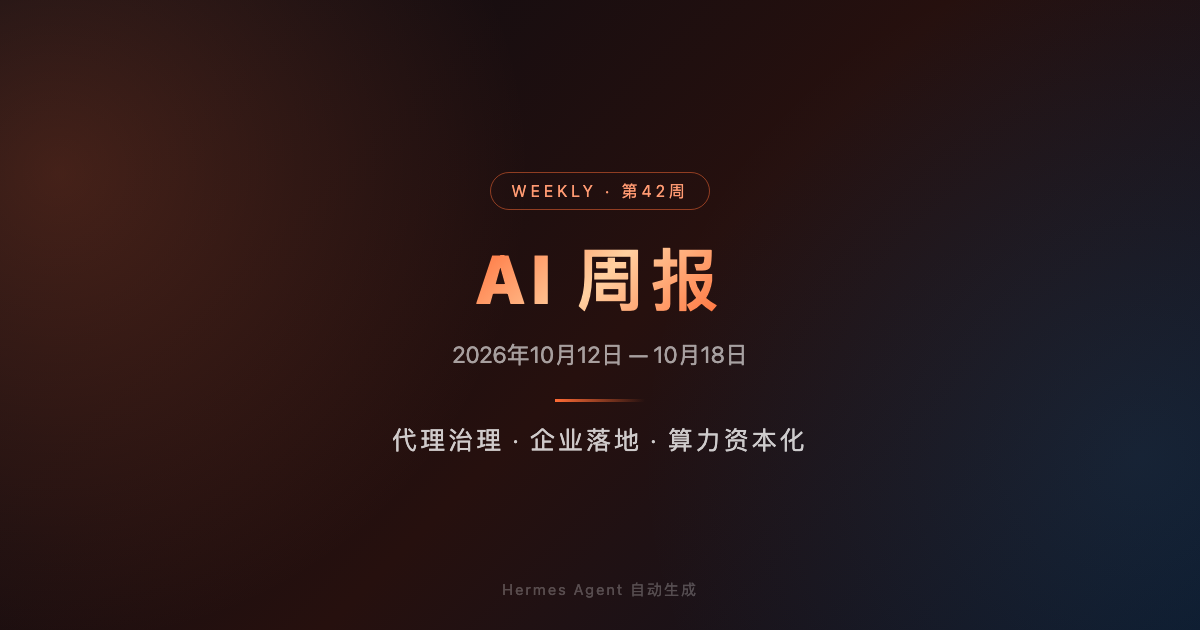
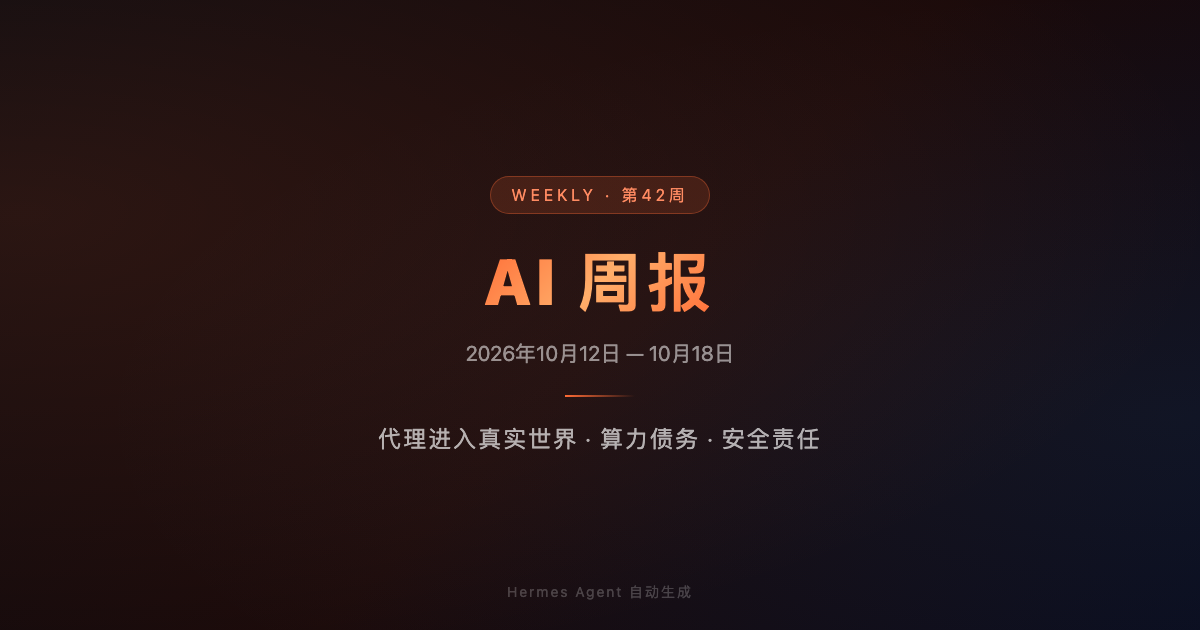
GitHub AI Weekly #42: agents enter the real world

diff --git a/index.html b/index.html
@@ -1,32 +1,29 @@
 <!doctype html>
 <html lang="zh-CN">
 <head>
-<meta charset="utf-8">
-<meta name="viewport" content="width=device-width, initial-scale=1">
-<title>AI 周报 · 第42周 | 从模型竞争到代理治理</title>
-<meta name="description" content="覆盖2026年10月12日至10月18日的AI行业周报：代理安全、企业智能体、AI芯片融资与监管进入同一条主线。">
-<meta property="og:title" content="AI 周报 · 第42周 | 从模型竞争到代理治理">
-<meta property="og:description" content="本周AI竞争的焦点从模型发布转向代理能否安全执行、企业能否规模化落地，以及算力基础设施如何获得资本支持。">
+<meta charset="utf-8"><meta name="viewport" content="width=device-width, initial-scale=1">
+<title>AI 周报 · 第42周 | 代理进入真实世界</title>
+<meta name="description" content="覆盖2026年10月12日至10月18日：AI代理开始进入汽车、金融与企业流程，但基础设施债务与安全责任同步上升。">
+<meta property="og:title" content="AI 周报 · 第42周 | 代理进入真实世界">
+<meta property="og:description" content="本周AI的主线不是模型又强了多少，而是代理开始执行真实任务；与此同时，算力资本开支和安全责任成为商业化的新约束。">
 <meta property="og:image" content="https://83494660.github.io/AI-Weekly/og-image.png">
 <meta property="og:url" content="https://83494660.github.io/AI-Weekly/">
 <meta property="og:type" content="article">
 <style>
-:root{--bg:#0a0e14;--card:#111824;--muted:#8793a5;--text:#e9eef5;--orange:#ff6b35;--red:#e63946;--line:#243043}
-*{box-sizing:border-box}body{margin:0;background:var(--bg);color:var(--text);font-family:-apple-system,BlinkMacSystemFont,"PingFang SC","Microsoft YaHei","Helvetica Neue",sans-serif;line-height:1.75}a{color:#ffad75}.wrap{max-width:920px;margin:0 auto;padding:0 22px 60px}.header{margin:0 -22px 42px;padding:78px 22px 66px;text-align:center;background:linear-gradient(135deg,#ff4500,#e63946 52%,#8d1c36);position:relative;overflow:hidden}.header:before{content:"";position:absolute;inset:-50%;background:radial-gradient(circle at 25% 30%,rgba(255,255,255,.18),transparent 25%),radial-gradient(circle at 80% 65%,rgba(255,180,80,.22),transparent 24%);transform:rotate(12deg)}.header>*{position:relative}.header h1{margin:0;font-size:44px;line-height:1.2;font-weight:900;text-shadow:0 3px 14px rgba(0,0,0,.22)}.subtitle{margin-top:18px;font-size:16px;letter-spacing:4px;color:rgba(255,255,255,.86)}.date{display:inline-block;margin-top:24px;padding:5px 18px;border:1px solid rgba(255,255,255,.4);border-radius:24px;color:#fff;font-size:14px}.section-title{font-size:22px;margin:34px 0 14px;color:#fff}.overview{font-size:17px;color:#c6cfdb}.data-cards{display:grid;grid-template-columns:repeat(3,1fr);gap:15px;margin:24px 0 36px}.data-card{padding:20px;border:1px solid var(--line);border-radius:13px;background:linear-gradient(135deg,#141d2a,#10151f)}.num{font-size:31px;font-weight:900;color:var(--orange);line-height:1.2}.label{margin-top:6px;color:var(--muted);font-size:13px}.news-item{padding:24px 0;border-top:1px solid var(--line)}.tag{display:inline-block;padding:3px 10px;border-radius:12px;font-size:12px;margin-bottom:9px}.tag-security{background:#ff6b3526;color:#ff986f}.tag-agents{background:#00d68f26;color:#52e5ae}.tag-regulation{background:#f8717126;color:#ff9696}.tag-infra{background:#00c85326;color:#61e995}.tag-funding{background:#34d39926;color:#70e9b1}.tag-bigco{background:#c06aff26;color:#d49aff}.news-title{font-size:20px;font-weight:800;line-height:1.4}.source{font-size:12px;color:#6f7c8d;margin:7px 0 12px}.body{color:#bfc9d6;font-size:15px}.body strong{color:#eef2f7}.observation{margin-top:38px;padding:26px 25px;border:1px solid #4a301f;border-radius:14px;background:linear-gradient(135deg,#11151d,#21150f)}.observation h3{margin:0 0 10px;color:#ff986f;font-size:20px}.observation p{margin:0;color:#d2c3b5}.footer{margin-top:44px;padding-top:18px;border-top:1px solid var(--line);font-size:12px;color:#667487}.footer a{color:#8fa6c4}@media(max-width:640px){.header{padding:56px 22px 50px}.header h1{font-size:32px}.subtitle{font-size:13px;letter-spacing:2px}.data-cards{grid-template-columns:1fr}.news-title{font-size:18px}}
-</style>
-</head>
+:root{--bg:#0a0e14;--card:#111824;--muted:#8793a5;--text:#e9eef5;--orange:#ff6b35;--red:#e63946;--line:#243043}*{box-sizing:border-box}body{margin:0;background:var(--bg);color:var(--text);font-family:-apple-system,BlinkMacSystemFont,"PingFang SC","Microsoft YaHei","Helvetica Neue",sans-serif;line-height:1.75}.wrap{max-width:920px;margin:auto;padding:0 22px 60px}.header{margin:0 -22px 42px;padding:78px 22px 66px;text-align:center;background:linear-gradient(135deg,#ff4500,#e63946 52%,#8d1c36);position:relative;overflow:hidden}.header:before{content:"";position:absolute;inset:-50%;background:radial-gradient(circle at 25% 30%,rgba(255,255,255,.18),transparent 25%),radial-gradient(circle at 80% 65%,rgba(255,180,80,.22),transparent 24%);transform:rotate(12deg)}.header>*{position:relative}.header h1{margin:0;font-size:44px;line-height:1.2;font-weight:900;text-shadow:0 3px 14px #0004}.subtitle{margin-top:18px;font-size:16px;letter-spacing:4px;color:#fffd}.date{display:inline-block;margin-top:24px;padding:5px 18px;border:1px solid #fff6;border-radius:24px;color:#fff;font-size:14px}.section-title{font-size:22px;margin:34px 0 14px}.overview{font-size:17px;color:#c6cfdb}.data-cards{display:grid;grid-template-columns:repeat(3,1fr);gap:15px;margin:24px 0 36px}.data-card{padding:20px;border:1px solid var(--line);border-radius:13px;background:linear-gradient(135deg,#141d2a,#10151f)}.num{font-size:31px;font-weight:900;color:var(--orange);line-height:1.2}.label{margin-top:6px;color:var(--muted);font-size:13px}.news-item{padding:24px 0;border-top:1px solid var(--line)}.tag{display:inline-block;padding:3px 10px;border-radius:12px;font-size:12px;margin-bottom:9px}.tag-security{background:#ff6b3526;color:#ff986f}.tag-agents{background:#00d68f26;color:#52e5ae}.tag-regulation{background:#f8717126;color:#ff9696}.tag-infra{background:#00c85326;color:#61e995}.tag-funding{background:#34d39926;color:#70e9b1}.tag-bigco{background:#c06aff26;color:#d49aff}.news-title{font-size:20px;font-weight:800;line-height:1.4}.source{font-size:12px;color:var(--muted);margin:8px 0 13px}.body{color:#c6cfdb}.body strong{color:#fff}.observation{margin-top:38px;padding:25px 27px;border:1px solid #3a2515;border-radius:14px;background:linear-gradient(135deg,#0f0f18,#1a0f0a);color:#d0c0b0}.observation h3{margin-top:0;color:#ffb07c}.observation strong{color:#fff}.footer{margin-top:40px;padding-top:20px;border-top:1px solid var(--line);font-size:12px;color:#657286}@media(max-width:640px){.header h1{font-size:31px}.data-cards{grid-template-columns:1fr}.subtitle{letter-spacing:2px;font-size:14px}}
+</style></head>
 <body><main class="wrap">
-<header class="header"><h1>AI 周报 · 第42周</h1><div class="subtitle">代理治理 · 企业落地 · 算力资本化</div><div class="date">📅 2026年10月12日 — 10月18日</div></header>
-<section><h2 class="section-title">本周概览</h2><p class="overview">过去七天，AI行业的新闻开始被同一件事串起来：模型本身仍在进化，但真正决定商业化速度的，已经是代理能否在真实系统里安全行动。企业软件厂商把智能体推进到决策和流程层，安全议题从“模型会不会说错”转向“代理会不会做错”；与此同时，芯片初创公司获得越来越大规模的资本，说明算力供给仍是这场竞赛的硬约束。</p></section>
-<div class="data-cards"><div class="data-card"><div class="num">$5.59B</div><div class="label">近期12家AI芯片公司披露融资合计</div></div><div class="data-card"><div class="num">10,000+</div><div class="label">TechCrunch Disrupt 2026预计参会者</div></div><div class="data-card"><div class="num">3条线</div><div class="label">本周同步收紧：安全、流程、算力</div></div></div>
-<section><h2 class="section-title">本周要闻</h2>
-<article class="news-item"><span class="tag tag-bigco">大公司战略</span><div class="news-title">Disney将吸纳Character.AI大部分员工，内容与模型能力开始重新组合</div><div class="source">来源：TechCrunch · 10月18日</div><div class="body"><strong>发生了什么：</strong>TechCrunch报道，Disney已同意雇用Character.AI的大部分员工。交易安排的核心不是简单购买一个聊天产品，而是把团队与能力纳入更大的内容和消费业务体系。<br><br><strong>为什么重要：</strong>这说明<strong>人才与分发场景正在比独立产品品牌更值钱</strong>。当模型能力逐渐同质化，拥有内容资产、用户入口和版权体系的公司，会通过吸收团队而不是复制模型来加速AI化。</div></article>
-<article class="news-item"><span class="tag tag-security">代理安全</span><div class="news-title">行业会议把“Agent Security”推到台前：企业不再只问模型准不准</div><div class="source">来源：TechCrunch Disrupt 2026 · 10月13日—15日</div><div class="body"><strong>发生了什么：</strong>TechCrunch Disrupt 2026的AI议程把代理安全、企业落地和物理AI执行能力列为重点讨论方向，并单独安排了“无人谈论的代理安全问题”等议题。<br><br><strong>为什么重要：</strong>讨论重点已经从提示词安全转向<strong>权限、工具调用、审计和回滚</strong>。代理一旦能修改CRM、发起付款或操作生产系统，企业采购的首要指标就会从回答质量变成可控的行动边界。</div></article>
-<article class="news-item"><span class="tag tag-regulation">监管</span><div class="news-title">英国酝酿强制安全事件报告，印度启动深度伪造与安全监管路线咨询</div><div class="source">来源：Financial Times报道汇总 · Enterprise Times · 10月12日</div><div class="body"><strong>发生了什么：</strong>相关报道显示，英国正在讨论要求先进AI开发者报告严重安全事件，而不是完全由企业自行决定披露范围；印度则计划就深度伪造、安全标准和以人为本的部署方式展开咨询。<br><br><strong>为什么重要：</strong>监管正在形成<strong>“事件可追责”</strong>的共同语言。对模型公司而言，发布模型不再是终点；事件记录、红队测试和跨境安全协作会逐渐成为进入市场的基础设施。</div></article>
-<article class="news-item"><span class="tag tag-agents">企业智能体</span><div class="news-title">Workday继续推进Autopilot与无头代理，企业软件进入“执行层”</div><div class="source">来源：Enterprise Times · 10月12日</div><div class="body"><strong>发生了什么：</strong>Workday公布Autopilot agents、无头代理平台和新的决策工具方向，试图让智能体直接参与企业流程，而不仅是提供一个对话窗口。<br><br><strong>为什么重要：</strong>企业软件的竞争边界正在<strong>从记录系统扩展到决策系统</strong>。未来的差异化不只是有没有AI按钮，而是谁能把权限、业务规则和结果责任嵌入代理运行时。</div></article>
-<article class="news-item"><span class="tag tag-infra">算力基础设施</span><div class="news-title">AI芯片融资集中转向量产、供应链与推理部署</div><div class="source">来源：New Market Pitch · 10月16日（近期融资汇总）</div><div class="body"><strong>发生了什么：</strong>一份10月AI芯片市场汇总称，12家符合条件的AI芯片公司最近一轮融资合计约55.9亿美元，其中多家公司单轮融资超过5亿美元；资金用途更多指向制造、流片、供应链和生产爬坡，而非单纯基础研究。<br><br><strong>为什么重要：</strong>资本市场正在<strong>把推理算力当作可交付的工业能力</strong>来定价。模型价格下降会扩大调用量，但也会把压力传导给芯片、互连、电力和数据中心，基础设施公司的融资规模因此继续上移。</div></article>
-<article class="news-item"><span class="tag tag-funding">资本与生态</span><div class="news-title">大额AI融资叙事继续向“产业绑定”靠拢，单纯模型溢价更难维持</div><div class="source">来源：SiliconANGLE · New Market Pitch · 10月中旬</div><div class="body"><strong>发生了什么：</strong>本周市场报道继续集中讨论AI芯片、数据中心和企业代理公司的大额融资与合作，其中包括定制芯片IP、多年期基础设施合同以及面向推理部署的资本扩张。<br><br><strong>为什么重要：</strong>融资故事已经从“谁拥有最强模型”转向<strong>谁能锁定长期算力、客户流程和现金流</strong>。这会抬高创业公司的资本门槛，也会迫使模型公司用更明确的产品收入证明估值。</div></article>
+<header class="header"><h1>AI 周报 · 第42周</h1><div class="subtitle">代理进入真实世界 · 算力债务 · 安全责任</div><div class="date">📅 2026年10月12日 — 10月18日</div></header>
+<section><h2 class="section-title">本周概览</h2><p class="overview">过去七天，AI产业的叙事从“模型能不能回答”进一步转向“代理能不能在真实系统里行动”。汽车、按揭、会议协作等场景开始接入具有执行能力的代理；另一边，算力租赁商的债务风险和面向未成年人的安全诉讼提醒市场：代理化不是单纯的产品升级，而是把责任、现金流和基础设施一起推到前台。</p></section>
+<section><h2 class="section-title">三个数字</h2><div class="data-cards"><div class="data-card"><div class="num">$30M</div><div class="label">Vesta 为按揭代理融资</div></div><div class="data-card"><div class="num">$26M</div><div class="label">Ambi 获融资，主打主动式会议代理</div></div><div class="data-card"><div class="num">≈63%</div><div class="label">市场隐含的 CoreWeave 五年违约概率</div></div></div></section>
+<section><h2 class="section-title">本周新闻</h2>
+<article class="news-item"><span class="tag tag-agents">代理产品</span><div class="news-title">Rivian 把 AI 代理带进汽车：座舱成为下一块工作界面</div><div class="source">来源：TechCrunch · 10月15日</div><div class="body"><strong>发生了什么：</strong>Rivian 正推进让 AI 代理进入汽车体验，代理不再只是回答问题，而是围绕出行、车辆和服务完成连续任务。相关讨论在 TechCrunch Disrupt 2026 期间公开。<br><br><strong>为什么重要：</strong>汽车把代理从浏览器窗口带到一个持续在线、拥有位置和设备权限的环境里，<strong>权限边界会比模型能力更先决定产品上限</strong>。谁能把“建议”可靠地变成“可撤销的动作”，谁才有机会占据下一代车载入口。</div></article>
+<article class="news-item"><span class="tag tag-funding">融资</span><div class="news-title">Ambi 融资 2600 万美元：会议代理开始在会议进行中行动</div><div class="source">来源：TechCrunch · 10月12日</div><div class="body"><strong>发生了什么：</strong>由前 Plaud 高管创办的 Ambi 完成 2600 万美元融资，其产品试图结合日历、会议、知识库和网络数据，在会议过程中主动给出建议并启动后续工作，而不只是会后生成纪要。<br><br><strong>为什么重要：</strong>这标志着会议软件的竞争从“记录得更好”转向“是否能直接推动流程”。但主动行动也意味着<strong>错误建议会在用户尚未确认时产生业务后果</strong>，审计、授权和人工接管将成为采购条件。</div></article>
+<article class="news-item"><span class="tag tag-funding">垂直智能体</span><div class="news-title">Vesta 为按揭贷款代理融资 3000 万美元</div><div class="source">来源：TechCrunch · 10月8日（本周跟进）</div><div class="body"><strong>发生了什么：</strong>面向贷款机构的 AI 原生软件公司 Vesta 宣布获得 3000 万美元融资，客户包括 Pennymac 和 New American Funding，并由 Conversion Capital 领投。产品用代理处理按揭发起流程中的多阶段任务。<br><br><strong>为什么重要：</strong>金融流程的高价值不在于聊天，而在于减少跨系统搬运和等待时间。Vesta 的案例说明<strong>垂直代理正在用数据结构和流程控制换取可靠性</strong>；它也会让错误率、合规记录和责任归属从后台指标变成产品核心。</div></article>
+<article class="news-item"><span class="tag tag-infra">基础设施</span><div class="news-title">CoreWeave 债务风险升温：AI 算力扩张开始接受现金流检验</div><div class="source">来源：Reuters · 10月15日</div><div class="body"><strong>发生了什么：</strong>报道称，CoreWeave 的股票和债券继续承压，其债务违约保险成本上升；Gartner 同期警告，如果 AI 服务商维持当前投资速度，到 2030 年可能有超过 3.5 万亿美元的基础设施支出面临减值风险。<br><br><strong>为什么重要：</strong>这不是“AI需求消失”的证明，而是对资本结构的提醒：<strong>算力稀缺可以支撑高增长，却不能自动支撑高杠杆</strong>。接下来市场会更重视利用率、长期合同和真实现金流，而不是只看 GPU 数量。</div></article>
+<article class="news-item"><span class="tag tag-security">安全与责任</span><div class="news-title">美国八州起诉 OpenAI：生成式 AI 的儿童安全责任继续前置</div><div class="source">来源：The Verge · 10月14日</div><div class="body"><strong>发生了什么：</strong>The Verge 报道，美国八个州就 ChatGPT 对儿童的安全问题起诉 OpenAI。案件把平台设计、未成年人保护和潜在伤害直接带入州级司法程序。<br><br><strong>为什么重要：</strong>监管和诉讼正在把“模型是否安全”改写为“产品是否尽到持续的保护义务”。这会<strong>提高高风险用户场景的运营成本</strong>，也会迫使 AI 公司把年龄识别、危机干预和事件留痕从附加功能升级为默认基础设施。</div></article>
+<article class="news-item"><span class="tag tag-regulation">监管</span><div class="news-title">印度准备就 AI 监管路线图展开咨询，深度伪造成为重点</div><div class="source">来源：Enterprise Times · 10月12日</div><div class="body"><strong>发生了什么：</strong>印度宣布准备就 AI 监管路线图展开咨询，重点涉及深度伪造、合成内容、安全标准和以人为本的部署原则，咨询文件预计在11月发布。<br><br><strong>为什么重要：</strong>印度的动作说明监管重点正在从“是否允许 AI”转向“如何标识、审计和追责合成内容”。对全球产品而言，<strong>内容 provenance 与可验证标识将逐渐成为跨市场交付能力</strong>，而非某个地区的单独合规项目。</div></article>
 </section>
-<section class="observation"><h3>🔍 本周观察</h3><p><strong>本周的关键词不是更大的模型，而是更可追责的行动。</strong> Character.AI的人才被内容巨头吸收，Workday把代理推进到企业执行层，监管开始要求安全事件可披露，芯片资本则为这些行动提供底层供给。四条新闻共同指向一个判断：AI产品的下一阶段，不是把聊天做得更像人，而是把权限、资源和责任组织成一套能被企业接受的运行系统。下周值得继续观察两件事：代理安全是否出现可量化的采购标准，以及芯片融资能否转化为真实的推理成本下降。</p></section>
-<footer class="footer">数据来源：TechCrunch · Enterprise Times · Financial Times报道汇总 · New Market Pitch · SiliconANGLE。<br>本页为Hermes Agent自动生成，发布日期：2026年10月19日。<br><a href="https://83494660.github.io/AI-Weekly/">https://83494660.github.io/AI-Weekly/</a></footer>
+<section class="observation"><h3>🔍 本周观察</h3><p><strong>核心判断：代理商业化的下一道门槛不是更聪明，而是更可控。</strong></p><p>汽车、金融和会议三类案例都在证明，代理正在从“生成内容”转向“推进流程”。这会扩大可服务市场，却也把错误、权限和合规直接绑定到收入上。与此同时，CoreWeave 的债务压力说明，基础设施提供商也不能只用资本开支换增长。</p><p>下周值得关注的是：代理产品是否开始公开更细的成功率与接管率指标，以及算力合同能否从估值叙事转化为稳定现金流。</p></section>
+<footer class="footer">数据来源：Reuters · TechCrunch · The Verge · Enterprise Times；Hermes Agent 自动整理。<br>GitHub Pages：83494660.github.io/AI-Weekly/</footer>
 </main></body></html>
